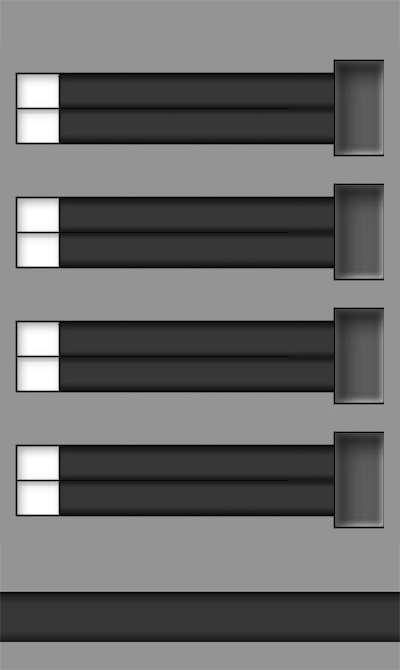
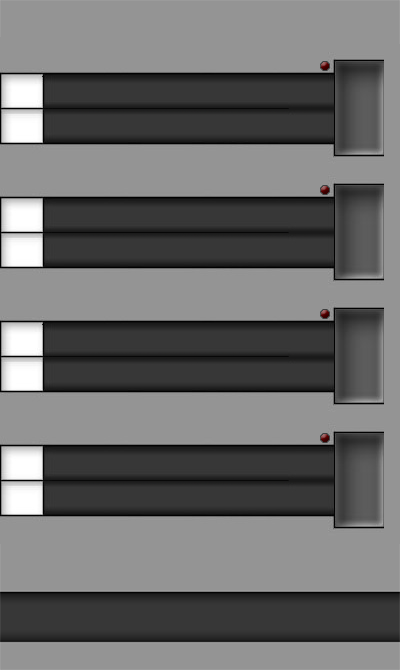
Images Update

diff --git a/src/factory/global/data/ImageArray.java b/src/factory/global/data/ImageArray.java
@@ -22,25 +22,27 @@ public class ImageArray{
 	public ImageArray(){
 
 		images = new ArrayList<ImageIcon>();
-		images.add(new ImageIcon("bin/factory/global/assets/part1.png"));		// index 0		part 1
-		images.add(new ImageIcon("bin/factory/global/assets/part2.png"));		// index 1		part 2
-		images.add(new ImageIcon("bin/factory/global/assets/part3.png"));		// index 2		part 3
-		images.add(new ImageIcon("bin/factory/global/assets/part4.png"));		// index 3		part 4
-		images.add(new ImageIcon("bin/factory/global/assets/part5.png"));		// index 4		part 5
-		images.add(new ImageIcon("bin/factory/global/assets/part6.png"));		// index 5		part 6
-		images.add(new ImageIcon("bin/factory/global/assets/part7.png"));		// index 6		part 7
-		images.add(new ImageIcon("bin/factory/global/assets/part8.png"));		// index 7		part 8
-		images.add(new ImageIcon("bin/factory/global/assets/part9.png"));		// index 8		part 9
-		images.add(new ImageIcon("bin/factory/global/assets/part10.png"));		// index 9		part 10
-		images.add(new ImageIcon("bin/factory/global/assets/bin.png"));			// index 10		bin
-		images.add(new ImageIcon("bin/factory/global/assets/robot.png"));		// index 11		Kit/Part Picking Robot
-		images.add(new ImageIcon("bin/factory/global/assets/kit.png"));			// index 12		Kit
-		images.add(new ImageIcon("bin/factory/global/assets/camera.png"));		// index 13		QA/Nest Cam
-		images.add(new ImageIcon("bin/factory/global/assets/camflash.png"));	// index 14		Cam Flash
-		images.add(new ImageIcon("bin/factory/global/assets/camline.png"));		// index 15		Nest Cam Line
-        images.add(new ImageIcon("bin/factory/global/assets/gripper.png"));     // index 16     Gripper
-        images.add(new ImageIcon("bin/factory/global/assets/imageChart.png"));  // index 17     Image Chart
-        images.add(new ImageIcon("bin/factory/global/assets/gantry.png"));		// index 18		Gantry
+		images.add(new ImageIcon("bin/factory/global/assets/part1.png"));			// index 0		part 1
+		images.add(new ImageIcon("bin/factory/global/assets/part2.png"));			// index 1		part 2
+		images.add(new ImageIcon("bin/factory/global/assets/part3.png"));			// index 2		part 3
+		images.add(new ImageIcon("bin/factory/global/assets/part4.png"));			// index 3		part 4
+		images.add(new ImageIcon("bin/factory/global/assets/part5.png"));			// index 4		part 5
+		images.add(new ImageIcon("bin/factory/global/assets/part6.png"));			// index 5		part 6
+		images.add(new ImageIcon("bin/factory/global/assets/part7.png"));			// index 6		part 7
+		images.add(new ImageIcon("bin/factory/global/assets/part8.png"));			// index 7		part 8
+		images.add(new ImageIcon("bin/factory/global/assets/part9.png"));			// index 8		part 9
+		images.add(new ImageIcon("bin/factory/global/assets/part10.png"));			// index 9		part 10
+		images.add(new ImageIcon("bin/factory/global/assets/bin.png"));				// index 10		bin
+		images.add(new ImageIcon("bin/factory/global/assets/robot.png"));			// index 11		Kit/Part Picking Robot
+		images.add(new ImageIcon("bin/factory/global/assets/kit.png"));				// index 12		Kit
+		images.add(new ImageIcon("bin/factory/global/assets/camera.png"));			// index 13		QA/Nest Cam
+		images.add(new ImageIcon("bin/factory/global/assets/camflash.png"));		// index 14		Cam Flash
+		images.add(new ImageIcon("bin/factory/global/assets/camline.png"));			// index 15		Nest Cam Line
+        images.add(new ImageIcon("bin/factory/global/assets/gripper.png"));    		// index 16     Gripper
+        images.add(new ImageIcon("bin/factory/global/assets/imageChart.png"));		// index 17     Image Chart
+        images.add(new ImageIcon("bin/factory/global/assets/gantry.png"));			// index 18		Gantry
+        images.add(new ImageIcon("bin/factory/global/assets/partslow.png"));	// index 19		Parts Low Light
+
 	}
 
 	public ImageIcon getIcon(int i){

diff --git a/src/factory/server/managers/laneManager/LaneManager.java b/src/factory/server/managers/laneManager/LaneManager.java
@@ -36,21 +36,21 @@ public class LaneManager implements GuiManager
 		
 		// Create 8 lanes
 		lanes = new ArrayList<Lane>();
-		lanes.add(new Lane(16,73,index));
+		lanes.add(new Lane(1,73,index));
 		index+=3;
-		lanes.add(new Lane(16,108,index));
+		lanes.add(new Lane(1,108,index));
 		index+=3;
-		lanes.add(new Lane(16,197,index));
+		lanes.add(new Lane(1,197,index));
 		index+=3;
-		lanes.add(new Lane(16,232,index));
+		lanes.add(new Lane(1,232,index));
 		index+=3;
-		lanes.add(new Lane(16,321,index));
+		lanes.add(new Lane(1,321,index));
 		index+=3;
-		lanes.add(new Lane(16,356,index));
+		lanes.add(new Lane(1,356,index));
 		index+=3;
-		lanes.add(new Lane(16,445,index));
+		lanes.add(new Lane(1,445,index));
 		index+=3;
-		lanes.add(new Lane(16,480,index));
+		lanes.add(new Lane(1,480,index));
 		index+=3;	
 		
 		// Create 4 Dividers

diff --git a/src/factory/global/data/Lane.java b/src/factory/global/data/Lane.java
@@ -46,7 +46,7 @@ public class Lane extends FactoryObject implements Serializable{
 	}
 	
 	public void addPart(int img ,int i){
-		lane.add(new Part(x+317,y+16,img,i));
+		lane.add(new Part(x+333,y+16,img,i));
 		counter++;
 	}
 	
